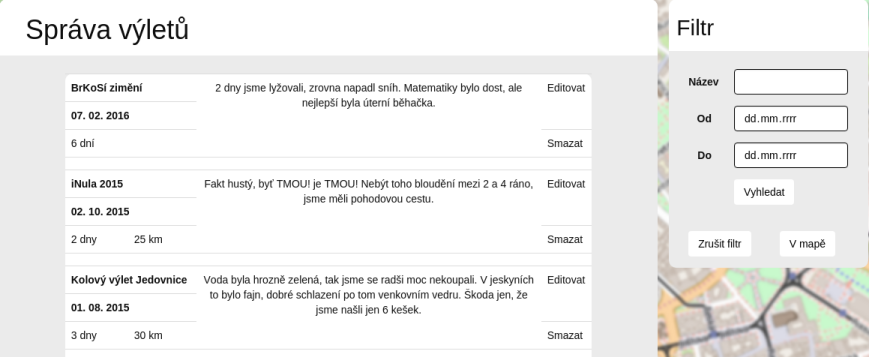
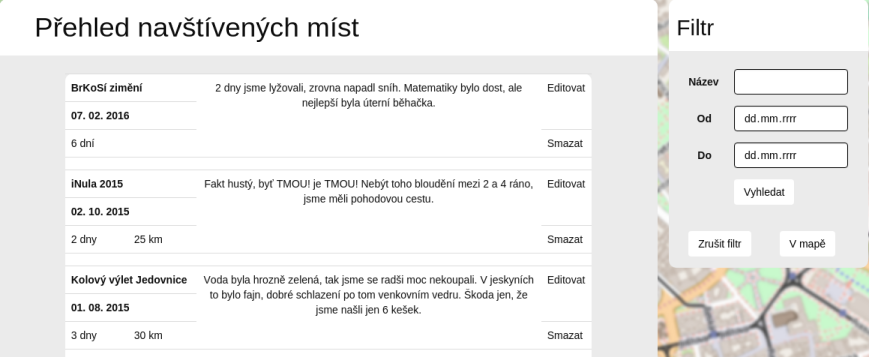
Refactored shown Management name

Changed region(s): [[0.0311, 0.0308, 0.435, 0.1232]]

diff --git a/app/presenters/RegistrationPresenter.php b/app/presenters/RegistrationPresenter.php
@@ -74,7 +74,7 @@ class RegistrationPresenter extends LoginPresenter
                     Aplikace je stále v aktivním vývoji, můžeš počítat s novinkami každý týden.<br><br>
 
                     Příjemné používání aplikace<br>
-                    <a href=\"mailto:ronald.luc&#64tripmap.cz\">Ronald Luc</a> "
+                    <a href=\"mailto:ron.norik@gmail.com\">Ronald Luc</a> "
                 );
 
             $mailer = new SendmailMailer;
@@ -94,7 +94,7 @@ class RegistrationPresenter extends LoginPresenter
             if ($this->registrationModel->validateUser($check, $user_name)) {
                 $this->flashMessage('Účet úspěšně aktivován', 'success');
             } else {
-                $this->flashMessage('Klíče se neshodují '.$check, 'danger');
+                $this->flashMessage('Klíče se neshodují', 'danger');
             }
         }
         $this->redirect('Login:guide');
@@ -135,7 +135,7 @@ class RegistrationPresenter extends LoginPresenter
                     V nastavení si ho můžeš změnit.<br><br>
 
                     Příjemné používání aplikace<br>
-                    <a href=\"mailto:ronald.luc&#64tripmap.cz\">Ronald Luc</a> "
+                    <a href=\"mailto:ron.norik@gmail.com\">Ronald Luc</a> "
                 );
 
             $mailer = new SendmailMailer;
@@ -144,7 +144,7 @@ class RegistrationPresenter extends LoginPresenter
 
             $this->flashMessage('By ti zaslán email s novým heslem', 'success');
         } else {
-            $this->flashMessage('Neexistující email'.$newPassword, 'danger');
+            $this->flashMessage('Neexistující email', 'danger');
         }
 
         $this->redirect('Login:default');
